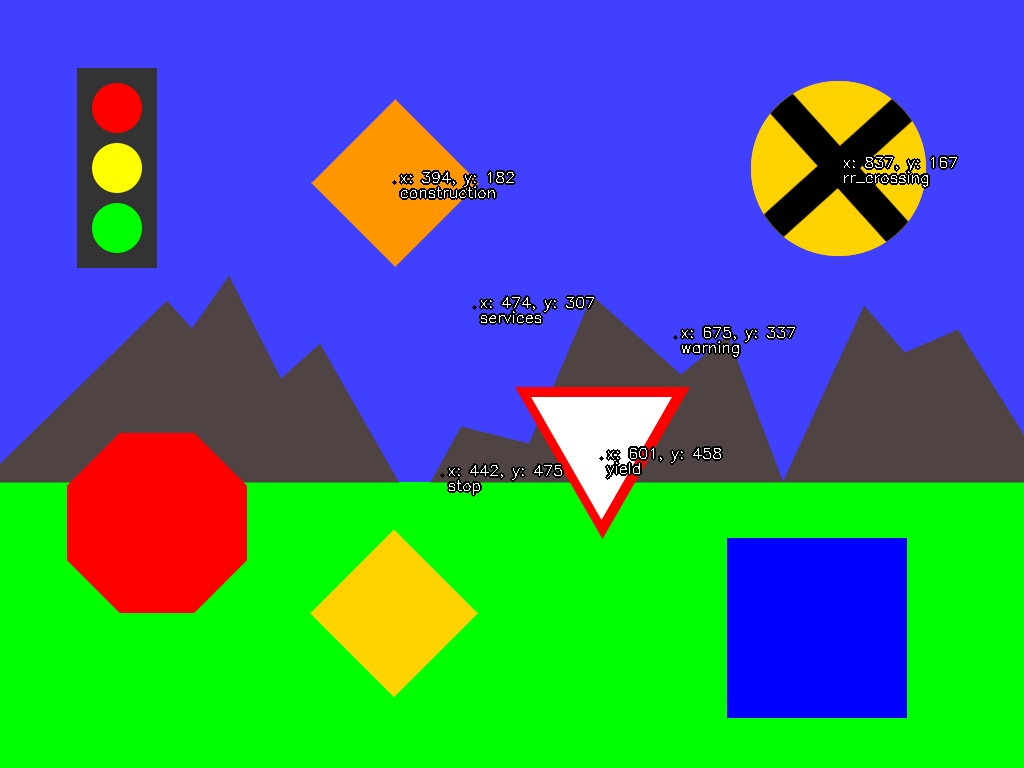
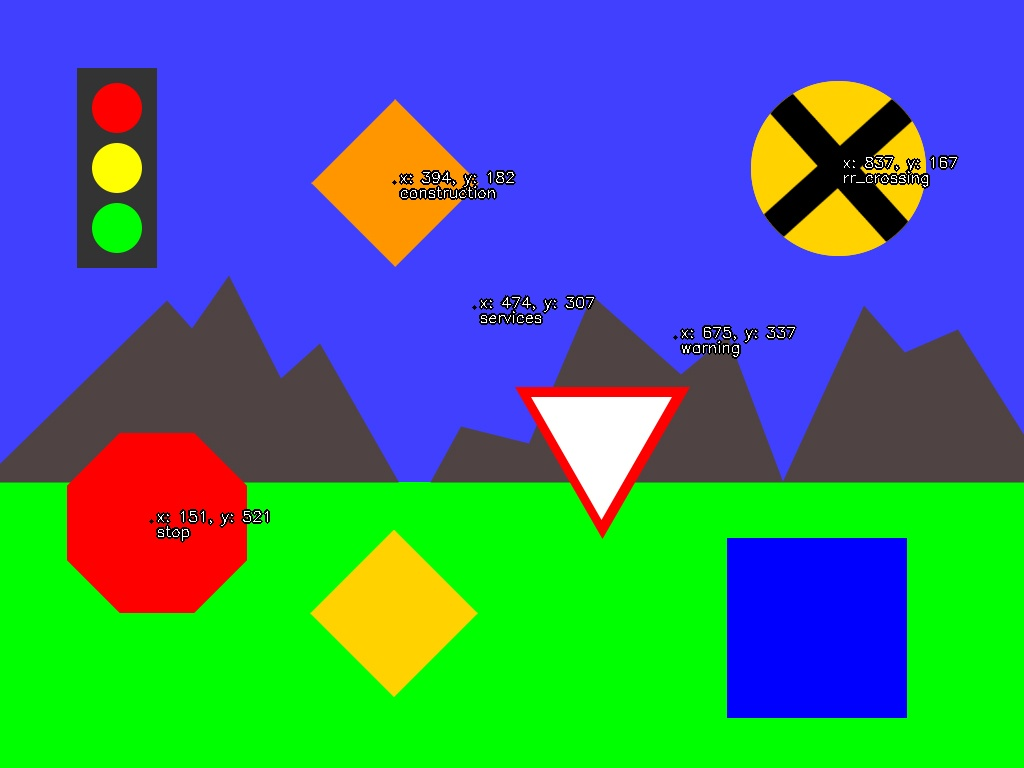
improved_stop_detection

Changed region(s): [[0.5938, 0.5625, 0.7188, 0.625], [0.125, 0.6562, 0.2812, 0.7188], [0.4375, 0.5938, 0.5625, 0.6562]]

diff --git a/homework/hw2/hw2.py b/homework/hw2/hw2.py
@@ -1,5 +1,6 @@
 import cv2
 import numpy as np
+from numpy.ma.core import masked
 
 
 def sign_lines(img: np.ndarray) -> np.ndarray:
@@ -172,7 +173,7 @@ def identify_stop_sign(img: np.ndarray) -> tuple:
     lower_red2 = np.array([170, 120, 70])
     upper_red2 = np.array([180, 255, 255])
 
-    # Define the color range for detecting orange
+    # Define the color range for detecting red
     mask1 = cv2.inRange(hsv, lower_red1, upper_red1)
     mask2 = cv2.inRange(hsv, lower_red2, upper_red2)
     mask = cv2.bitwise_or(mask1, mask2)
@@ -180,21 +181,21 @@ def identify_stop_sign(img: np.ndarray) -> tuple:
     # Apply the mask to the image
     masked_img = cv2.bitwise_and(img_cp, img_cp, mask=mask)
 
-    # Detect sign lines from the masked image
-    lines = sign_lines(masked_img)
+    # Detect circles
+    circles = sign_circle(masked_img)
 
-    if lines is None:
-        return 0, 0, 'None'
+    if circles is not None:
+        # Convert circles to integer values
+        circles = np.round(circles[0, :]).astype("int")
 
-    # Get x and y coordinates from detected lines
-    x, y = sign_axis(lines)
-
-    # Calculate the average position
-    if len(x) > 0 and len(y) > 0:
-        avg_x = np.mean(x).astype(int)
-        avg_y = np.mean(y).astype(int)
-
-        return avg_x, avg_y, 'stop'
+        # Get the (x, y) coordinates and radius of the first detected circle
+        for (x, y, r) in circles:
+            if 20 <= r <= 50:
+                continue
+            # Check for sign characteristics, e.g., circle size range
+            if 20 <= r <= 100:
+                # Return the center coordinates of the detected circle
+                return x, y, 'stop'
 
     return 0, 0, 'None'
 
@@ -206,36 +207,36 @@ def identify_yield(img: np.ndarray) -> tuple:
     :return: tuple with x, y, and sign name
              (x, y, 'yield')
     """
-    # Copy the image
-    img_cp = img.copy()
-
-    # Convert the image to HSV
-    hsv = cv2.cvtColor(img_cp, cv2.COLOR_BGR2HSV)
-
-    #  Define the color range for detecting white
-    lower_white = np.array([0, 0, 200])
-    upper_white = np.array([180, 55, 255])
-
-    # Define the color range for detecting white
-    mask = cv2.inRange(hsv, lower_white, upper_white)
-
-    # Apply the mask to the image
-    masked_img = cv2.bitwise_and(img_cp, img_cp, mask=mask)
-
-    contours = sign_contours(masked_img)
-
-    if contours is None:
-        return 0, 0, 'None'
-
-    for contour in contours:
-        # Approximate the contour shape
-        epsilon = 0.04 * cv2.arcLength(contour, True)
-        approx = cv2.approxPolyDP(contour, epsilon, True)
-
-        # Calculate the bounding box
-        x, y, w, h = cv2.boundingRect(approx)
-
-        return x + w // 2, y + h // 2, 'yield'
+    # # Copy the image
+    # img_cp = img.copy()
+    #
+    # # Convert the image to HSV
+    # hsv = cv2.cvtColor(img_cp, cv2.COLOR_BGR2HSV)
+    #
+    # #  Define the color range for detecting white
+    # lower_white = np.array([0, 0, 200])
+    # upper_white = np.array([180, 55, 255])
+    #
+    # # Define the color range for detecting white
+    # mask = cv2.inRange(hsv, lower_white, upper_white)
+    #
+    # # Apply the mask to the image
+    # masked_img = cv2.bitwise_and(img_cp, img_cp, mask=mask)
+    #
+    # contours = sign_contours(masked_img)
+    #
+    # if contours is None:
+    #     return 0, 0, 'None'
+    #
+    # for contour in contours:
+    #     # Approximate the contour shape
+    #     epsilon = 0.04 * cv2.arcLength(contour, True)
+    #     approx = cv2.approxPolyDP(contour, epsilon, True)
+    #
+    #     # Calculate the bounding box
+    #     x, y, w, h = cv2.boundingRect(approx)
+    #
+    #     return x + w // 2, y + h // 2, 'yield'
 
     return 0, 0, 'None'
 
